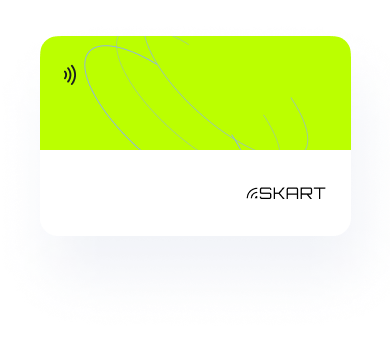
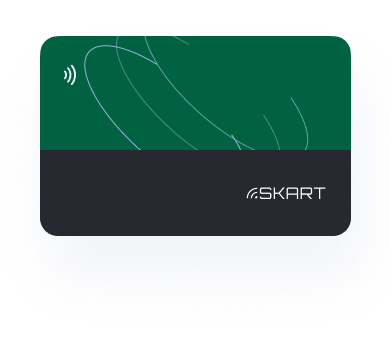
card done

diff --git a/lib/view/home_screen.dart b/lib/view/home_screen.dart
@@ -1,3 +1,4 @@
+import 'package:flip_card/flip_card.dart';
 import 'package:flutter/material.dart';
 
 class Home extends StatefulWidget {
@@ -10,6 +11,69 @@ class Home extends StatefulWidget {
 class _HomeState extends State<Home> {
   @override
   Widget build(BuildContext context) {
-    return Scaffold();
+    return Scaffold(
+      body: Stack(
+        children: [
+          FlipCard(
+            fill: Fill
+                .fillBack, // Fill the back side of the card to make in the same size as the front.
+            direction: FlipDirection.HORIZONTAL, // default
+            side: CardSide.FRONT, // The side to initially display.
+            front: Container(
+                child: Stack(
+              children: [
+                Image.asset('assets/images/card.png'),
+                Positioned(
+                    top: 100,
+                    left: 90,
+                    child: Text(
+                      "2020 1543 3264 8645",
+                      style: TextStyle(color: Colors.white, fontSize: 20),
+                    )),
+                Positioned(
+                    top: 170,
+                    left: 90,
+                    child: Text(
+                      "طاها صبیری",
+                      style: TextStyle(
+                          color: Colors.white,
+                          fontSize: 15,
+                          fontFamily: "kalame",
+                          fontWeight: FontWeight.w700),
+                    )),
+                Positioned(
+                    top: 190,
+                    left: 90,
+                    child: Text(
+                      "TA241O",
+                      style: TextStyle(
+                          color: Colors.white,
+                          fontSize: 15,
+                          fontFamily: "kalame",
+                          fontWeight: FontWeight.w400),
+                    )),
+              ],
+            )),
+            back: Container(
+              child: Stack(
+                children: [
+                  Image.asset(
+                    'assets/images/cardback.png',
+                  ),
+                  Positioned(
+                    left: 70,
+                    top: 70,
+                    child: SizedBox(
+                        height: 130,
+                        width: 130,
+                        child: Image.asset('assets/images/qrcode.png')),
+                  ),
+                ],
+              ),
+            ),
+          )
+        ],
+      ),
+    );
   }
 }
